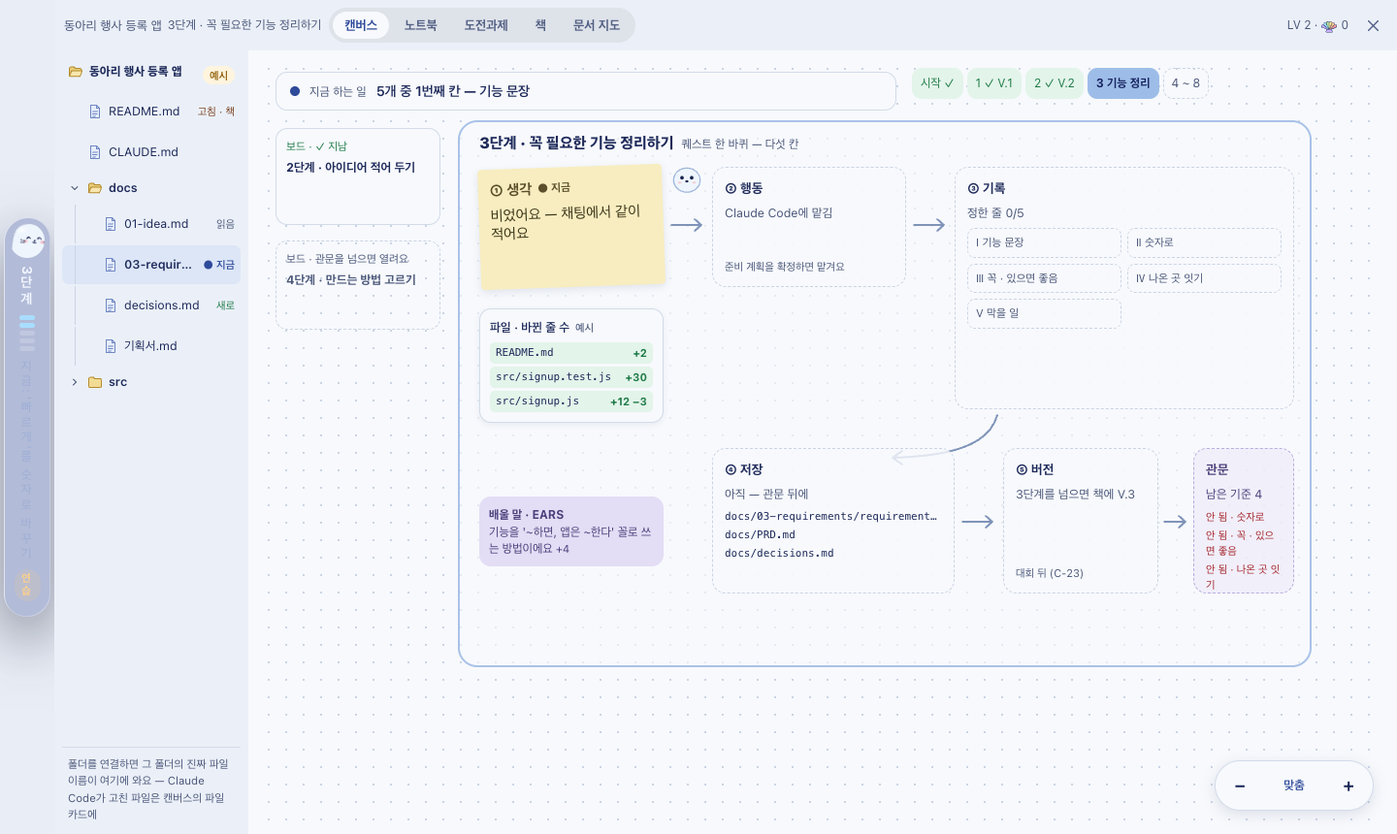
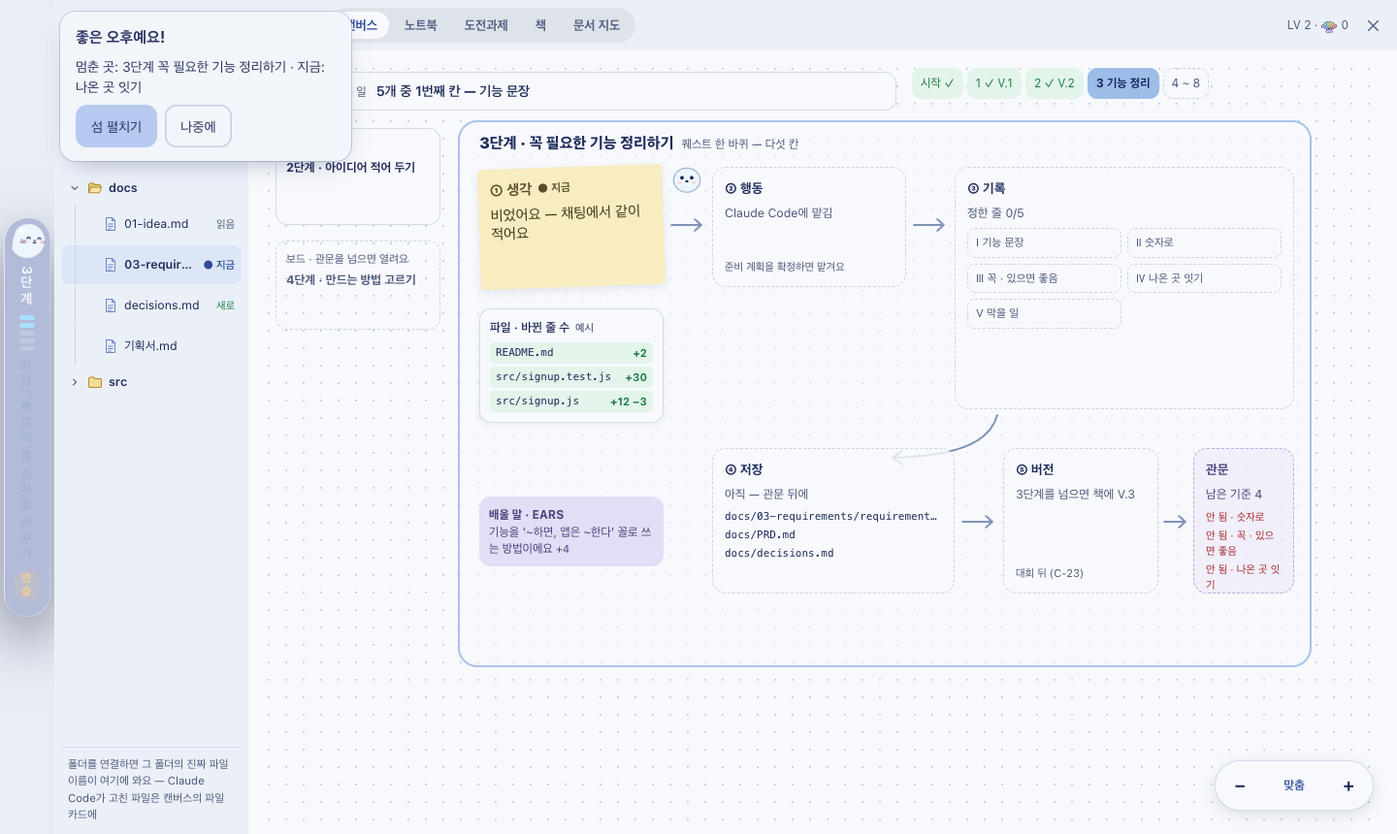
feat(navigator): C-55 켤 때 바로 작업실 — 지금 단계의 퀘스트 보드가 열린 채 섬은 접힌 알약, 알약 옆 말풍선(인사 · 멈춘 곳 · 섬 펼치기 / 나중에)
넘김 문서 fable-handoff-2026-10-27-mdlayout.md ⓒ(목업 캔버스 ①). 이재엽 버튼(2026-10-28): 켤 때 섬은 "접힌 알약 + 말풍선", 작업실은 "켤 때마다". C-46 R-1(켤 때 위 가운데 알약 안 인사)을 바꾼다 — R-2는 그대로.

- greet.js bootPlan(순수): 주소 끝 장면 · 휴대폰은 전처럼, 처음 설정이 필요하면(setup.js shouldOpen) 설정부터(작업실 · 말풍선 없이 — 알약 안 인사 뒤 설정), 아니면 작업실 + 말풍선. 인사 줄은 하루 한 번(C-46 버튼), 말풍선은 켤 때마다. BUBBLE_MS 8초(요구서 '시간 미정' → 8초로 둠)
- app.js: 켤 때 openQwin("canvas") + 접힌 알약(petit) + st.boot. 말풍선(bootBubble)은 옆 칸(앱 — isl-col.folded 밖으로 나와 작업실 위에, 가장자리 반대쪽) · 브라우저 판(알약 아래). '섬 펼치기' = 알약 누름, '나중에' = 말풍선만 사라짐. 접힌 칸은 말풍선이 있는 동안만 overflow visible
- 시험: greet.test(bootPlan 규칙 · app.js 글 고정), e2e pill-overlay — C-55 장면(작업실 + 알약 + 말풍선 · 같은 날은 인사 줄 없이 · 나중에 · 섬 펼치기 · 주소 끝 장면 · 처음 설정 전)이 R-1을 대신하고, R-2가 네 가장자리에서 말풍선이 창 안에 다 보이는지도 잰다. e2e 전체 48 통과
- 요구서 C-55 '만듦', compare README · 사진 boot-workspace.png, changes 조각

Changed region(s): [[0.0312, 0.0, 0.25, 0.2116]]

diff --git a/04-tests/e2e/pill-overlay.test.js b/04-tests/e2e/pill-overlay.test.js
@@ -29,28 +29,38 @@ if (skip) console.log(`⚠ e2e/pill-overlay: ${skip}`);
 const SHOTS = process.env.FLOE_SHOTS || "";
 const shot = async (page, name) => { if (SHOTS) { fs.mkdirSync(SHOTS, { recursive: true }); await page.screenshot({ path: path.join(SHOTS, `${name}.png`) }); } };
 
-test("R-1 — 주소 없이 켜면 알약 안에서 인사(html.greeting · .pill.greet · 시간대 인사 한 줄) → 끝나도 알약, 같은 날 다시 켜면 인사 없이 알약, 누르면 펼침. 주소 끝 장면은 전처럼 기본 화면", { skip }, async () => {
+// C-55(2026-10-28): R-1(켤 때 위 가운데 알약 + 알약 안 인사)을 바꿈 — 켜면 바로 작업실(.qwin, 캔버스) + 접힌 알약 + 알약 옆 말풍선(.hello-bub). 인사 줄은 하루 한 번, 말풍선은 켤 때마다(8초 뒤 사라짐)
+test("C-55 — 주소 없이 켜면 작업실이 바로 열리고 섬은 접힌 알약, 알약 옆 말풍선(시간대 인사 · 멈춘 곳 · 섬 펼치기 / 나중에). 같은 날 다시 켜면 인사 줄 없이. 주소 끝 장면 · 처음 설정 전은 전처럼", { skip }, async () => {
   const browser = await puppeteer.launch({ executablePath: chrome, headless: "new", args: ["--allow-file-access-from-files"] });
   try {
     const page = await browser.newPage(); await page.setViewport({ width: 1440, height: 900 });
     await page.goto(url("navigator/index.html#base"), { waitUntil: "load" });
     await page.evaluate(() => { localStorage.clear(); localStorage.setItem("floe:setup:v1", JSON.stringify({ done: true })); sessionStorage.clear(); });
-    await page.goto(url("navigator/index.html"), { waitUntil: "load" }); await page.reload({ waitUntil: "load" }); await wait(150);
-    let s = await page.evaluate(() => ({ greeting: document.documentElement.classList.contains("greeting"), pill: !!document.querySelector(".pill.greet"), hello: document.querySelector(".pill .pl-hello")?.textContent || "", isl: !!document.querySelector(".isl"), phase: document.documentElement.dataset.greet || "" }));
-    assert.ok(s.greeting && s.pill && !s.isl, `켜면 알약 안에서 인사: ${JSON.stringify(s)}`);
-    assert.ok(/아침|점심|오후|수고|밤/.test(s.hello), `시간대 인사 한 줄: ${s.hello}`);
-    await shot(page, "pill-greet");
-    await wait(2800);
-    s = await page.evaluate(() => ({ greeting: document.documentElement.classList.contains("greeting"), pill: !!document.querySelector(".pill") && !document.querySelector(".pill.greet"), isl: !!document.querySelector(".isl"), day: localStorage.getItem("floe:greet-day") }));
-    assert.ok(!s.greeting && s.pill && !s.isl, `끝나도 알약: ${JSON.stringify(s)}`);
+    await page.goto(url("navigator/index.html"), { waitUntil: "load" }); await page.reload({ waitUntil: "load" });
+    await page.evaluate(() => localStorage.removeItem("floe:greet-day")); await page.reload({ waitUntil: "load" }); await wait(400);   // 첫 켬 — 인사 줄은 켤 때 바로 '오늘 했다'로 적힌다(C-55)
+    const look = () => page.evaluate(() => ({ qwin: !!document.querySelector(".qwin"), canvas: !!document.querySelector(".qwin .cv"), pill: !!document.querySelector(".pill"), isl: !!document.querySelector(".isl"),
+      bub: document.querySelector(".hello-bub")?.textContent.replace(/\s+/g, " ").trim() || "", greeting: document.documentElement.classList.contains("greeting"),
+      later: !!document.querySelector(".hello-bub [data-act=boot-later]"), open: !!document.querySelector(".hello-bub [data-act=pill]"), day: localStorage.getItem("floe:greet-day") }));
+    let s = await look();
+    assert.ok(s.qwin && s.canvas && s.pill && !s.isl, `켜면 작업실(캔버스) + 접힌 알약: ${JSON.stringify(s)}`);
+    assert.ok(/아침|점심|오후|수고|밤/.test(s.bub), `말풍선에 시간대 인사 한 줄: ${s.bub}`); assert.match(s.bub, /멈춘 곳|시작 전/, "멈춘 곳 한 줄");
+    assert.ok(s.later && s.open, "섬 펼치기 / 나중에 단추"); assert.ok(!s.greeting, "알약 안 인사 움직임은 없다(말풍선으로)");
     assert.match(s.day || "", /^\d{4}-\d{2}-\d{2}$/, "오늘 인사했다");
-    await page.reload({ waitUntil: "load" }); await wait(150);
-    s = await page.evaluate(() => ({ greeting: document.documentElement.classList.contains("greeting"), pill: !!document.querySelector(".pill:not(.greet)"), isl: !!document.querySelector(".isl") }));
-    assert.ok(!s.greeting && s.pill && !s.isl, `같은 날 다시 켜면 인사 없이 알약: ${JSON.stringify(s)}`);
-    await page.click(".pill"); await wait(400);
-    assert.ok(await page.$(".isl .mc.chat"), "알약을 누르면 펼침");
+    const b = await page.$eval(".hello-bub", (el) => { const r = el.getBoundingClientRect(); return { w: r.width, h: r.height, in: r.left >= 0 && r.right <= innerWidth && r.top >= 0 && r.bottom <= innerHeight }; });
+    assert.ok(b.in && b.w > 120, `말풍선이 화면 안에: ${JSON.stringify(b)}`);
+    for (const sel of [".hello-bub [data-act=boot-later]", ".hello-bub [data-act=pill]"]) { const h = await page.$eval(sel, (el) => el.getBoundingClientRect().height); assert.ok(h >= 44, `${sel} 44px: ${h}`); }
+    await shot(page, "boot-workspace");
+    await page.click(".hello-bub [data-act=boot-later]"); await wait(300);
+    s = await look(); assert.ok(!s.bub && s.qwin && s.pill, `나중에 → 말풍선만 사라진다: ${JSON.stringify(s)}`);
+    await page.reload({ waitUntil: "load" }); await wait(400);
+    s = await look(); assert.ok(s.qwin && s.pill && s.bub && !/아침|점심|오후|수고|밤/.test(s.bub), `같은 날 다시 켜면 말풍선은 뜨되 인사 줄은 없음: ${s.bub}`);
+    await page.click(".hello-bub [data-act=pill]"); await wait(500);
+    assert.ok(await page.$(".isl .mc.chat"), "섬 펼치기 → 섬이 펼쳐진다"); assert.ok(!(await page.$(".hello-bub")), "펼치면 말풍선은 없다");
     await page.goto(url("navigator/index.html#base"), { waitUntil: "load" }); await page.reload({ waitUntil: "load" }); await wait(150);
-    assert.ok(await page.$(".isl .mc.chat") && !(await page.$(".pill")), "주소 끝 장면은 기본 화면(시험 · 녹화)");
+    assert.ok((await page.$(".isl .mc.chat")) && !(await page.$(".pill")) && !(await page.$(".hello-bub")), "주소 끝 장면은 기본 화면(시험 · 녹화)");
+    await page.evaluate(() => localStorage.removeItem("floe:setup:v1"));
+    await page.goto(url("navigator/index.html"), { waitUntil: "load" }); await page.reload({ waitUntil: "load" }); await wait(400);
+    s = await look(); assert.ok(!s.qwin && !s.bub && (await page.$("#floe-setup")), `처음 설정이 필요하면 설정부터: ${JSON.stringify(s)}`);
   } finally { await browser.close(); }
 });
 
@@ -74,12 +84,14 @@ async function measure(browser, h, side, folded) {
   await page.setViewport({ width: 1440, height: 860 });
   await page.goto(url("navigator/win.html#quest"), { waitUntil: "load" });
   const cls = `side-${side} ${side === "left" || side === "right" ? "narrow" : "wide"}${folded ? " folded" : ""}`;
-  await page.evaluate((html) => window.__h(html), `${h.qwin}<div class="isl-col ${cls}">${folded ? h.pill : h.isl}</div>`);
+  const BUB = '<div class="hello-bub" role="status"><b class="hb-hi">좋은 오후예요!</b><span class="hb-now">멈춘 곳: 3단계 꼭 필요한 기능 정리하기 · 지금: 나온 곳 잇기</span><div class="hb-acts"><button type="button" data-act="pill">섬 펼치기</button><button type="button" class="ghost" data-act="boot-later">나중에</button></div></div>';   // C-55 켤 때 말풍선(app.js bootBubble과 같은 모양)
+  await page.evaluate((html) => window.__h(html), `${h.qwin}<div class="isl-col ${cls}${folded ? " has-bub" : ""}">${folded ? h.pill + BUB : h.isl}</div>`);
   await wait(450);
   const m = await page.evaluate(() => { const c = document.querySelector(".isl-col").getBoundingClientRect(), cv = document.querySelector(".cv"), p = document.querySelector(".isl-col .pill"), hd = document.getElementById("hd");
     const pr = p && p.getBoundingClientRect(), inside = !!pr && pr.top >= c.top - 0.5 && pr.bottom <= c.bottom + 0.5 && pr.left >= c.left - 0.5 && pr.right <= c.right + 0.5;
-    const col = document.querySelector(".isl-col");
-    return { bg: getComputedStyle(col).backgroundColor, pillBg: p ? getComputedStyle(p).backgroundColor : "", w: Math.round(c.width), h: Math.round(c.height), cvw: cv.clientWidth, cvh: cv.clientHeight, pill: p ? { w: Math.round(pr.width), h: Math.round(pr.height), wm: getComputedStyle(p.querySelector(".pl-now") || p).writingMode, inside } : null, hd: !!hd && !hd.hidden, overflow: cv.scrollWidth > cv.clientWidth + 1 }; });
+    const col = document.querySelector(".isl-col"), bb = document.querySelector(".hello-bub"), br = bb && bb.getBoundingClientRect();
+    const bub = br ? { w: Math.round(br.width), in: br.left >= 0 && br.right <= innerWidth && br.top >= 0 && br.bottom <= innerHeight, over: !(br.right <= c.left || br.left >= c.right || br.bottom <= c.top || br.top >= c.bottom) && !(br.left >= c.left && br.right <= c.right && br.top >= c.top && br.bottom <= c.bottom) } : null;
+    return { bub, bg: getComputedStyle(col).backgroundColor, pillBg: p ? getComputedStyle(p).backgroundColor : "", w: Math.round(c.width), h: Math.round(c.height), cvw: cv.clientWidth, cvh: cv.clientHeight, pill: p ? { w: Math.round(pr.width), h: Math.round(pr.height), wm: getComputedStyle(p.querySelector(".pl-now") || p).writingMode, inside } : null, hd: !!hd && !hd.hidden, overflow: cv.scrollWidth > cv.clientWidth + 1 }; });
   await shot(page, `col-${side}-${folded ? "folded" : "open"}`);
   await page.close();
   return m;
@@ -99,6 +111,7 @@ test("R-2 — 작업실 창 안에서 섬을 접으면 옆 칸이 알약(두께 
       assert.ok(f.pill && (vertical ? f.pill.wm === "vertical-rl" && f.pill.w <= 56 : f.pill.wm === "horizontal-tb" && f.pill.h <= 56), `${side} — ${vertical ? "세로" : "가로"} 알약: ${JSON.stringify(f.pill)}`);
       assert.equal(f.bg, "rgba(0, 0, 0, 0)", `${side} — 접힌 칸의 바탕은 작업실 바탕이 비친다(F-65 파란 줄 없음): ${f.bg}`); assert.notEqual(o.bg, "rgba(0, 0, 0, 0)", `${side} — 펼친 칸은 네이비 그대로`);
       assert.ok(f.pillBg && f.pillBg !== "rgba(0, 0, 0, 0)", `${side} — 남색은 알약 하나: ${f.pillBg}`);
+      assert.ok(f.bub && f.bub.in && f.bub.w >= 200, `${side} — 켤 때 말풍선(C-55)이 접힌 칸 밖 · 창 안에 다 보인다: ${JSON.stringify(f.bub)}`);
       assert.ok(!f.overflow && !o.overflow, `${side} — 넘침 0`); assert.ok(f.pill.inside, `${side} — 알약이 칸 안에 다 들어간다(잘리지 않음): ${JSON.stringify(f.pill)}`);
     }
   } finally { await browser.close(); }

diff --git a/02-frontend/navigator/app.js b/02-frontend/navigator/app.js
@@ -129,7 +129,7 @@
     results: {}, ship: null,                       // C-37(2026-10-25): 단계마다 보고한 결과(quest.js resultOf — 한곳에서 보기 · 도전과제 지도 · 문서) · 2단계를 마친 뒤 문서 올리기({phase: offer|sent, at}, 이 켜짐 동안만)
     owned: [], wear: {}, gacha: null,               // 뽑기 · 꾸미기(C-22): 얻은 것(아이디) · 입은 것 {자리: 아이디} · 뽑기 창 {phase: ready|rolling|got, item}
     // 창 둘(설정 창 st.settings · 퀘스트 창 st.qwin) · 퀘스트 창의 탭 · 채팅 기록(이 켜짐 동안만 — 기록에는 안 남긴다) · 채팅 칸의 글
-    qwin: false, qtab: "canvas", chat: [], say: "", rb: null, rbSel: 0, tuSel: "", files: null, fnOpen: [], fnFind: "", openFiles: [], fileSel: -1,   // files · fnOpen — 작업실 파일 칸(R-8)의 목록과 펼친 폴더, fnFind · openFiles · fileSel — 파일 찾기 · 열린 파일(C-43)(이 켜짐 동안만)   // rb · tuSel — 책 탭의 README · 도전과제의 '알아 둘 것'에서 펼친 기능(이 켜짐 동안만)
+    qwin: false, qtab: "canvas", boot: null, chat: [], say: "", rb: null, rbSel: 0, tuSel: "", files: null, fnOpen: [], fnFind: "", openFiles: [], fileSel: -1,   // files · fnOpen — 작업실 파일 칸(R-8)의 목록과 펼친 폴더, fnFind · openFiles · fileSel — 파일 찾기 · 열린 파일(C-43)(이 켜짐 동안만)   // rb · tuSel — 책 탭의 README · 도전과제의 '알아 둘 것'에서 펼친 기능(이 켜짐 동안만)
     gh: null, ghVis: "private", ghNote: "",         // 설정의 GitHub 칸(C-25, 2026-10-24): 서버가 본 상태(/api/github) · 새 저장소의 공개 범위 · 맡긴 뒤 한 줄(이 켜짐 동안만)
     plan: null, planDraft: "", planReadme: true, planRej: "", planRejNote: "", planBusy: "", planAsk: "", planQ: "", planAns: {}, planReply: {},   // planBusy: 무엇을 기다리나(make · hand · ask) · planAsk/planQ: 물어보는 줄과 질문 · planAns: 줄마다 받은 답 · planReply: Claude Code가 물은 것에 적는 답(이 켜짐 동안만)   // 준비 계획판(C-34 · C-32, 2026-10-24): 판(plan.js) · 한 번에 넣은 글 · README도 읽나 · '다르게 봐요'를 여는 줄과 그 의견
     qfocus: "stage", planSel: "",                   // C-35: 지금 할 퀘스트(stage 단계 퀘스트 · plan 준비 계획과 맡길 일 — 채팅의 지금 말이 이쪽을 따른다) · 퀘스트 창에서 고른 맡길 일(이 켜짐 동안만)
@@ -2175,7 +2175,15 @@
   // C-46 R-2(2026-10-27 이재엽 버튼 "펼치면 비킴 · 접으면 알약" · "고른 가장자리에" · 세로 알약 · 설정의 시간대로): 섬이 접혀 있으면(petit · hidden) 옆 칸은 그 가장자리의 알약(folded — 왼쪽 · 오른쪽은 세로)이고 작업실이 넓어진다(win.js · win.html).
   //   알약을 누르면(ACT pill) 펼쳐지고 작업실이 비킨다. 알릴 일(허락 카드 · 보고 · 질문 · 오류)은 peek · alert로 저절로 펼친다(peek는 앱의 작업실 안이면 home으로). 저절로 접히기는 설정 '접히기까지' 그대로(pinned에서 st.qwin을 앱에서는 빼서) — 단 옆 칸에 마우스가 있거나 글을 쓰는 중(colHover · colTyping)이면 안 접히고, 접힌 알약은 더 접히지 않는다
   const colFolded = () => st.ui === "petit" || st.ui === "hidden";
-  const islCol = () => `<div class="isl-col side-${side} ${side === "left" || side === "right" ? "narrow" : "wide"}${colFolded() ? " folded" : ""}">${colFolded() ? pillHTML() : islandHTML("")}</div>`;
+  const islCol = () => `<div class="isl-col side-${side} ${side === "left" || side === "right" ? "narrow" : "wide"}${colFolded() ? " folded" : ""}${colFolded() && st.boot ? " has-bub" : ""}">${colFolded() ? pillHTML() + bootBubble() : islandHTML("")}</div>`;
+  // C-55(2026-10-28 이재엽 버튼 "접힌 알약 + 말풍선"): 켤 때 알약 옆 말풍선 — 시간대 인사 한 줄(하루 한 번) · 멈춘 곳(단계 · 지금 칸) · 섬 펼치기 / 나중에. 몇 초 뒤(greet.js BUBBLE_MS) 사라진다
+  const bootBubble = () => {
+    if (!st.boot || !colFolded()) return "";
+    const s = st.j && stage();
+    const now = s ? `멈춘 곳: ${LB(s.n)} ${esc(s.title)} · 지금: ${esc(tick().now)}` : "시작 전이에요 — 무엇을 만들지부터 같이 정해요";
+    return `<div class="hello-bub" role="status" aria-live="polite">${st.boot.greet ? `<b class="hb-hi">${esc(C.greeting(new Date().getHours()))}</b>` : ""}<span class="hb-now">${now}</span>
+      <div class="hb-acts"><button type="button" data-act="pill">섬 펼치기</button><button type="button" class="ghost" data-act="boot-later">나중에</button></div></div>`;
+  };
   function syncWins() {
     if (!WINS || !QU) return;
     for (const [kind, on, html] of [["quest", st.qwin, st.qwin ? qwinHTML() + islCol() : ""]]) {
@@ -2262,7 +2270,7 @@
     placeFrom = st.place; paneFrom = st.pane;
     deskKeys = {};
     if (st.ui === "hidden") { $nav.innerHTML = stripHTML(); }
-    else if (st.ui === "petit") $nav.innerHTML = `<div class="${enter.trim()}">${pillHTML()}</div>`;
+    else if (st.ui === "petit") $nav.innerHTML = `${!WINS && st.qwin ? qwinHTML() : ""}<div class="${enter.trim()}">${pillHTML()}${bootBubble()}</div>`;   // 브라우저 판(C-55): 켤 때 작업실이 열린 채 알약이면 작업실 판도 함께(앱은 창으로 — syncWins)
     else $nav.innerHTML = islandHTML(enter);
     $nav.classList.toggle("side", !!$nav.querySelector(":scope > .win"));   // 창(설정 · 퀘스트)이 열리면 섬 옆에 나란히(C-22) — 아래에 열리면 글자를 키웠을 때 바로 안 보였다(6.2.0)
     $nav.classList.toggle("peekroom", !!window.floeApp && (st.ui === "hidden" || st.ui === "petit"));   // 접힌 창의 여유 — 올리면 커질 자리(C-14)
@@ -2776,6 +2784,7 @@
     pin: () => { clearIdle(); set({ userPin: !st.userPin }); say(st.userPin ? "여기 열어 둘게요" : "이제 잠시 뒤 작게 접힐게요"); },
     pill: () => (st.ui === "hidden" ? go("home") : view("click")),   // 접힌 알약은 어느 상태든 누르면 펼침(C-46, 새 맥락 리뷰)
     fold: () => go("petit"),
+    "boot-later": () => { st.boot = null; render(); },   // C-55 말풍선의 '나중에' — 말풍선만 사라진다(작업실 · 알약은 그대로)
     pet: () => pet("tap"),
     // 연습용은 바로 살펴보고, 진짜 AI 모드에서는 글만 넣어 둔다(보내는 건 사용자가 '어디쯤인지 보기'를 누를 때)
     ex: (i) => {
@@ -3426,8 +3435,13 @@
   // C-46 R-1(2026-10-27 이재엽 "플로가 켜지면 … 알약" · 버튼 "알약 안에서 인사" · "하루에 한 번"): 켜면 큰 인사 카드 없이 알약(petit)으로, 인사는 알약 안에서(startGreeting — greet.js PILL_TIMELINE).
   //   같은 날 다시 켜면 인사 없이 알약만(floe:greet-day). 주소 끝 장면(시험 · 녹화)은 전처럼 기본 화면. 움직임 줄이기 · 휴대폰은 알약만
   const GREET_DAY = "floe:greet-day";
-  const greetNow = !!GR && st.ui === "greet" && GR.shouldGreet({ hash: location.hash, still: STILL, phone: isPhone(), lastDay: readLS(GREET_DAY, ""), today: ymd() }).greet;
-  if (greetNow) { document.documentElement.classList.add("greeting"); st.ui = "petit"; }
+  // C-55(2026-10-28 이재엽 버튼 "접힌 알약 + 말풍선" · "켤 때마다"): 켜면 바로 작업실(캔버스 = 지금 단계의 퀘스트 보드) + 접힌 알약 + 알약 옆 말풍선(greet.js bootPlan). 처음 설정이 필요하면 전처럼(알약 안 인사 → 설정)
+  const bootArgs = { hash: location.hash, still: STILL, phone: isPhone(), lastDay: readLS(GREET_DAY, ""), today: ymd(),
+    setupNeeded: !!(window.FloeSetup && window.FloeSetup.shouldOpen(window.FloeSetup.readSaved(localStorage), location.hash)) };
+  const boot = GR && st.ui === "greet" ? GR.bootPlan(bootArgs) : { workspace: false, bubble: false, greet: false };
+  const greetNow = !!GR && st.ui === "greet" && !boot.workspace && GR.shouldGreet(bootArgs).greet;
+  if (boot.workspace) { openQwin("canvas"); st.ui = "petit"; st.boot = { greet: boot.greet, at: Date.now() }; if (boot.greet) writeLS(GREET_DAY, ymd()); setTimeout(() => { if (st.boot) { st.boot = null; render(); } }, GR.BUBBLE_MS); }
+  else if (greetNow) { document.documentElement.classList.add("greeting"); st.ui = "petit"; }
   else if (st.ui === "greet") st.ui = location.hash && location.hash !== "#" ? "home" : "petit";
   function startGreeting() {
     const h = document.documentElement;

diff --git a/02-frontend/navigator/app.css b/02-frontend/navigator/app.css
@@ -1263,6 +1263,24 @@ html.win-quest .wh .ttl{display:none}   /* OS 제목 줄에 "Floe — 작업실"
 .isl-col.folded.side-left .pill .pet,.isl-col.folded.side-right .pill .pet{margin:0}
 .isl-col.folded.side-left .pill b,.isl-col.folded.side-left .pill .pl-now,.isl-col.folded.side-left .pill .pl-cta,.isl-col.folded.side-left .pill .pl-mode,.isl-col.folded.side-left .pill .mini,
 .isl-col.folded.side-right .pill b,.isl-col.folded.side-right .pill .pl-now,.isl-col.folded.side-right .pill .pl-cta,.isl-col.folded.side-right .pill .pl-mode,.isl-col.folded.side-right .pill .mini{writing-mode:vertical-rl;max-width:none;max-height:240px}
+/* claude-drafted: 2026-10-28 — C-55 켤 때 알약 옆 말풍선(.hello-bub, 이재엽 버튼 "접힌 알약 + 말풍선"). 파스텔 종이 + 남색 글씨(대비 4.5:1 이상), 단추 44px. 접힌 칸(56) 밖으로 나와 작업실 위에 뜬다 — 그 가장자리의 반대쪽으로 */
+.hello-bub{box-sizing:border-box;width:300px;max-width:calc(100vw - 32px);padding:14px 16px;border-radius:16px;background:#F2F5FA;color:#2B3463;box-shadow:0 10px 28px -12px rgba(43,52,99,.45),0 0 0 1px #C5CEE2;display:grid;gap:8px;font-size:14px;line-height:1.5;text-align:left;animation:bub-in .3s cubic-bezier(.2,.8,.2,1)}
+.hello-bub .hb-hi{font-size:16px}
+.hello-bub .hb-now{color:#2B3463}
+.hello-bub .hb-acts{display:flex;gap:8px;flex-wrap:wrap}
+.hello-bub .hb-acts button{min-height:44px;padding:0 16px;border:0;border-radius:12px;background:#B8C9F0;color:#263066;font:inherit;font-size:14px;cursor:pointer}
+.hello-bub .hb-acts button.ghost{background:transparent;color:#2B3463;box-shadow:inset 0 0 0 1.5px #C5CEE2}
+.hello-bub .hb-acts button:focus-visible{outline:2px solid #4D66B5;outline-offset:2px}
+@keyframes bub-in{from{opacity:0;transform:translateY(6px)}to{opacity:1;transform:none}}
+@media (prefers-reduced-motion:reduce){.hello-bub{animation:none}}
+.nav>div>.hello-bub{margin-top:8px}   /* 브라우저 판 — 알약 아래 */
+.isl-col.folded.has-bub{overflow:visible;position:relative}   /* 말풍선이 있는 동안만 칸 밖으로 나온다(알약은 그대로 칸 안) */
+.isl-col.folded .hello-bub{position:absolute;z-index:3}
+.isl-col.folded.side-right .hello-bub{right:62px;top:12px}
+.isl-col.folded.side-left .hello-bub{left:62px;top:12px}
+.isl-col.folded.side-top .hello-bub{top:62px;left:50%;transform:translateX(-50%)}
+.isl-col.folded.side-bottom .hello-bub{bottom:62px;left:50%;transform:translateX(-50%)}
+@media (prefers-reduced-motion:no-preference){.isl-col.folded.side-top .hello-bub,.isl-col.folded.side-bottom .hello-bub{animation:none}}   /* translateX와 겹치는 움직임은 두지 않는다 */
 /* 섬 머리의 자리 네 칸(▲ ▼ ◀ ▶) */
 .dk{display:inline-flex;gap:2px;padding:2px;border-radius:10px;background:var(--soft);flex:none}
 .dk button{width:26px;height:26px;border:0;border-radius:7px;background:transparent;color:var(--mute);font-size:calc(11px * var(--ui-scale,1));cursor:pointer}

diff --git a/02-frontend/navigator/greet.js b/02-frontend/navigator/greet.js
@@ -32,6 +32,18 @@
     return { greet: true, why: "" };
   }
 
+  // C-55(2026-10-28 이재엽 버튼 "접힌 알약 + 말풍선" · "켤 때마다"): 켤 때 무엇을 여나 — 작업실(지금 단계의 퀘스트 보드) · 알약 옆 말풍선 · 인사 줄.
+  //   처음 설정이 필요하면(setup.js shouldOpen) 설정부터 — 작업실 · 말풍선 없이(인사는 전처럼 알약 안에서, 끝나면 설정이 열린다). 주소 끝 장면 · 휴대폰은 전처럼.
+  //   말풍선은 켤 때마다(멈춘 곳 · 섬 펼치기 / 나중에), 시간대 인사 줄만 하루에 한 번(C-46 버튼). 움직임 줄이기면 인사 움직임 없이 말풍선만
+  const BUBBLE_MS = 8000;   // 말풍선이 사라지기까지 — 요구서 C-55 '몇 초 뒤(시간 미정)' → 8초로 두었다. 누르면(섬 펼치기 · 나중에) 바로
+  function bootPlan({ hash = "", still = false, phone = false, lastDay = "", today = "", setupNeeded = false } = {}) {
+    if (hash && hash !== "#") return { workspace: false, bubble: false, greet: false, why: "주소 끝 장면" };
+    if (phone) return { workspace: false, bubble: false, greet: false, why: "휴대폰 화면" };
+    if (setupNeeded) return { workspace: false, bubble: false, greet: shouldGreet({ hash, still, phone, lastDay, today }).greet, why: "처음 설정부터" };
+    const g = shouldGreet({ hash, still: false, phone, lastDay, today });
+    return { workspace: true, bubble: true, greet: g.greet && !still, why: still && g.greet ? "움직임 줄이기 — 알약만" : g.why };
+  }
+
   // 시간표를 돌린다 — onPhase(단계 이름)를 차례로 부른다. skip()은 남은 타이머를 모두 지우고 바로 "done"을 한 번만 부른다(누름 · Esc).
   // cancel()은 지우기만 한다(화면을 떠날 때). 타이머 함수는 시험이 가짜로 넣는다
   function play(timeline, { setTimeout: later = root.setTimeout, clearTimeout: cancelTimer = root.clearTimeout, onPhase } = {}) {
@@ -44,7 +56,7 @@
     return { skip: done, cancel: () => { timers.forEach(cancelTimer); timers = []; finished = true; }, get finished() { return finished; } };
   }
 
-  const api = { TIMELINE, PILL_TIMELINE, LIMIT, total, shouldGreet, play };
+  const api = { TIMELINE, PILL_TIMELINE, LIMIT, BUBBLE_MS, total, shouldGreet, bootPlan, play };
   if (typeof module !== "undefined" && module.exports) module.exports = api;
   else root.FloeGreet = api;
 })(typeof window !== "undefined" ? window : globalThis);

diff --git a/04-tests/navigator/pill-overlay.test.js b/04-tests/navigator/pill-overlay.test.js
@@ -10,7 +10,7 @@ const read = (f) => fs.readFileSync(path.join(__dirname, "../../02-frontend", f)
 test("app.js — 섬이 접혀 있으면(petit · hidden) 옆 칸은 알약(folded), 아니면 섬 그대로. 앱의 작업실은 열려 있어도 저절로 접힌다(pinned에서 뺌), 알약을 누르면 펼친다", () => {
   const a = read("navigator/app.js");
   assert.match(a, /const colFolded = \(\) => st\.ui === "petit" \|\| st\.ui === "hidden";/);
-  assert.match(a, /\$\{colFolded\(\) \? " folded" : ""\}">\$\{colFolded\(\) \? pillHTML\(\) : islandHTML\(""\)\}<\/div>`;/, "접힘이면 알약 하나");
+  assert.match(a, /\$\{colFolded\(\) \? pillHTML\(\) \+ bootBubble\(\) : islandHTML\(""\)\}<\/div>`;/, "접힘이면 알약 하나(+ 켤 때 말풍선 C-55)");
   assert.match(a, /\|\| st\.settings \|\| \(st\.qwin && !WINS\) \|\| !!st\.gacha/, "앱의 작업실은 섬을 붙들지 않는다(설정의 시간대로) — 브라우저의 옆 판은 전처럼");
   assert.match(a, /pill: \(\) => \(st\.ui === "hidden" \? go\("home"\) : view\("click"\)\)/, "알약 누름 = 펼침(hidden이어도)"); assert.match(a, /fold: \(\) => go\("petit"\)/, "접기 단추");
   // 새 맥락 리뷰(2026-10-27) 막힘 둘 · 보완: 접힌 알약은 더 접히지 않는다, 옆 칸에 마우스 · 글 쓰는 중에는 안 접힌다, 알릴 일이 오면 펼친다, Esc는 먼저 접기

diff --git a/01-docs/00-overview/requirements.md b/01-docs/00-overview/requirements.md
@@ -210,7 +210,7 @@ flowchart LR
 | **C-52 지식 · 작업의 보안 — 쓰기 전 가리기 · 빼 둘 곳 · 넣은 글은 자료로만 · 크기와 정지선 · 보관** | **When** 시스템이 기록(한 장 · 배운 것 · 가져갈 것 · 단계 문서)을 사용자 저장소에 쓰려 하면, 비밀값은 가리고(`sensitive.js`) 개인적인 일로 보이는 구간은 먹이 주기처럼(`feed.js`) 빼고 미리 보인다. **If** 그 저장소가 공개면, 쓰기 전에 "누구나 볼 수 있어요 — 올리면 지워도 이력에 남아요"를 한 번 더 묻는다.<br>시스템은 사용자가 고른 폴더 · 파일을 Floe의 AI(정리 · 계획 · 요약)에 보내지 않는다 — 비밀값 파일 목록(`files.js` · `check-secrets.sh`)과 같은 목록에 사용자가 더한다 [제안].<br>시스템은 먹이 · README · 문서에서 온 글을 AI에게 **자료로만** 넘기고 그 안의 지시를 따르지 않게 한다 — 정리 · 요약 · 계획은 지금처럼 도구 없는 호출(`provider.js` `--tools ""`)로만 하고, 파일을 쓰는 일만 Claude Code(허락 카드, FR-17)에 맡긴다.<br>시스템은 정해진 시각에 저절로 도는 정리를 두지 않는다 — 퀘스트 칸 · 관문에서 사람이 움직일 때만. 정리에 보내는 글마다 크기 한계를 두고, 같은 문서의 정리 요청이 쌓이면 마지막 하나만 보낸다. 한도 80%에서 알리고 다 쓰면 멈춘다(지금 `provider.js` meter).<br>시스템은 반려 · 낡음 · 근거 없음 기록을 지우지 않고 보관하며, 지우는 것은 사용자만 한다. 시스템은 다른 서비스의 아이디 · 비밀번호를 묻지도 두지도 않는다 | 참고: Simplify — 기밀 문서는 로컬 LLM으로 · DIKW 제외(파일 · 폴더) · 80KB 절단 · 같은 파일은 최신 1건만 · 한도 95% 정지선 · 도구를 제한한 레인 · 반려 보관 · 매시 · 매일 스케줄. 이재엽 2026-10-27 "작업하는데 어떤 점들을 보안해야하는지" · 같은 날 그 사이트에 아이디 · 비밀번호를 주면 로그인이 되는지 물음(비밀번호는 대화로 받지 않는다고 안내함). 우리 쪽: `docs.js` redact("공개 저장소일 수 있다") · `feed.js` · `provider.js` cliArgs · `files.js` · `project.js`("Floe는 GitHub 토큰을 받지도 두지도 않는다", "`claude -p`는 폴더를 믿는지 묻지 않는다"). 보안 기준 [security-records.md](../../.claude/rules/security-records.md) 2 · 3 · 5절 · 6-1 · 6-3 · 6-4(OWASP Top 10 for LLM Applications의 프롬프트 주입 — 원문은 쓸 때 확인) | **결정 대기.** 제안 — 공개 저장소 확인 · 자료로만 · 스케줄 없음은 **C-25 · C-47 · C-48을 만드는 PR의 조건**(따로 세지 않음), 빼 둘 곳 · 보관 기간은 Could | 없음(만드는 PR마다 시험으로) | ① 공개 저장소 확인 — 매번 / 저장소마다 처음 한 번 ② 빼 둘 곳의 자리 — 설정 창 / 프로젝트의 파일 하나 ③ 보관 기간(보안 기준 5절 빈칸) ④ NotebookLM(C-24) · 웹 주소 넣기 같은 새 길은 보안 기준 3절 표에 먼저 |
 | **C-53 작업실 새 틀 — 파일 칸 · 작업 칸 · 오른쪽 칸 (MD 에디터 모양)** <!-- claude-drafted: 2026-10-27 — 이재엽 요청("작업하는 공간은 [스크린샷] 이걸 따르고 내가 요구한 기능들을 보이도록" · "전부 목업에서 진행한걸 토대로 페이블에서 작업할 예정" · "전부 작업 시작 필요한 부분들")으로 Claude가 목업 캔버스와 문장 초안을 만들었다. 만들지 않았다. C-54 · C-55도 같다. --> | 시스템은 작업실을 세 칸으로 둔다 — 왼쪽 **파일 칸**(이름 찾기 · '열린 파일' 묶음 · 진짜 목록 C-42 R-8), 가운데 **작업 칸**(위 줄: 작업실 · 지금 단계 · 보기 고르기 **지도 / 퀘스트 보드 / 노트북 / 책** · 칸 접기 단추, 그 아래 단계 칩 줄 또는 열린 파일 탭 · 문서 도구 줄 · 본문 · 상태 줄), 오른쪽 **오른쪽 칸**(위: 이 문서 — 목차 · 칸 채움 · 재료, 아래: 퀘스트 — 지금 단계 · 다섯 칸 · 관문 남은 기준). 파일 칸과 오른쪽 칸은 위 줄 단추로 접는다.<br>**When** 사용자가 파일을 열면(C-43), 시스템은 문서 도구 줄에 보기 / 원문 · 서식(제목 · 굵게 · 목록 · 넣기) · 글 크기 · 목차 · 머리말 · 찾기 · 틀로 맡기기(C-44) · 저장(⌘S) · 되돌리기를, 상태 줄에 저장 이력 수 · 바뀐 줄(Claude Code가 / 내가 — 색으로 나눔) · 줄 위치 · 줄 끝(LF · CRLF)을 보인다. 서식 단추는 원문에 마크다운 기호를 넣는다 [제안 — 지금은 원문 고치기만].<br>**When** 사용자가 섬을 펼치면(C-46 R-2), 시스템은 오른쪽 칸을 접어 작업실이 비킬 자리를 만들고, 섬을 접으면 다시 보인다 [제안] | 이재엽 2026-10-27 "그리고 작업하는 공간은 [스크린샷] 이걸 따르고 내가 요구한 기능들을 보이도록 해줬으면 좋겠네" + 스크린샷(md.sumzip.com MD Editor — 파일목록 · 찾기 · 열린파일 \| 탭 · 서식 줄 · 문서 · 상태 줄 '임시저장 목록 · 현재 1 / 전체 1' \| Outline Hierarchy · Document Stats · Project) · "전부 목업에서 진행한걸 토대로 페이블에서 작업할 예정임" · (목업을 본 뒤) "전부 작업 시작 필요한 부분들". [목업 캔버스](https://claude.ai/artifact/1To4aBVaPbF74QoBjy7Pf3) ① ② ③. 지금(`main` 931274c): 파일 칸 · 탭 다섯(캔버스 · 노트북 · 도전과제 · 책 · 문서 지도) · 파일 보기 · 고치기(C-43)는 있다 — 오른쪽 칸 · 서식 단추 · 상태 줄은 없다 | **만든다 — 2026-10-27 이재엽 "전부 작업 시작"**, 페이블 세션([넘김 문서](기록/fable-handoff-2026-10-27-mdlayout.md) ⓓ), 11/1 동결 전. MoSCoW는 이재엽 [제안: Should — C-41 · C-42와 같은 화면 방향] | 작업실 세 칸 · 문서 열고 고치기 | ① 서식 단추를 새로 만드나(지금은 원문 고치기만) ② 오른쪽 칸 — 섬을 펼치면 접힘 / 늘 보임 ③ 상태 줄의 '바뀐 줄'은 git과 다른 줄인가, 저장 이력 기준인가 ④ 보기 고르기의 '퀘스트 보드'는 지금 '캔버스' 탭 — 이름을 바꾸나 |
 | **C-54 지도 — 도전과제와 문서 지도를 한 탭으로, 2단계 끝에 전체 그림을 그리고 퀘스트를 미리 준비** | 시스템은 도전과제 탭과 문서 지도 탭(C-45)을 **지도** 하나로 합친다 — 카드 하나 = 한 단계의 퀘스트(다섯 칸 진행 · 관문 남은 기준)와 그 퀘스트가 쓰는 단계 문서(`docs/<단계>/…md` — 있음 / 아직). 카드는 1 → 4, 5 → 8 차례로 잇고, 단계 밖 문서(README · CLAUDE.md · `docs/decisions.md`)는 아래 줄에 둔다. 끝남 · 지금 · 준비됨 · 아직 안 그려짐을 모양(채움 · 굵은 테두리 · 점선 · 흐림)으로 나눈다.<br>**While** 2단계 기획서를 확인하기 전이면, 시스템은 1 · 2단계 카드만 그리고 3 ~ 8단계는 '2단계에서 그려져요'로 흐리게 둔다.<br>**When** 사용자가 2단계 IV(기획서로 키울지)에서 기획서(`docs/02-plan/plan.md`)를 확인하면, 시스템은 기획서에서 3 ~ 8단계 카드를 한 번에 그리고 카드마다 퀘스트 다섯 칸을 **준비된 퀘스트**로 미리 채운다 — ① 생각(기획서의 그 절) · ② 행동(맡길 일) · ③ 기록(정할 줄) · ④ 저장(문서 이름) · ⑤ 버전. 카드마다 어느 절에서 왔는지 적고(근거가 없으면 '새로 정함' — C-51과 같은 규칙), 사용자는 맞아요 / 고칠래요로 확인한다. 그 단계에 들어서면 준비된 칸으로 퀘스트를 시작한다(지금은 들어설 때 만든다).<br>**When** 사용자가 카드를 누르면, 시스템은 오른쪽 칸(C-53)에 그 퀘스트의 다섯 칸 · 문서 · 재료를 보이고, 문서가 있으면 파일 보기(C-43)로 연다 | 이재엽 2026-10-27 "문서지도랑 도전과제가 합쳐지면 어떻게 나올지 캔버스로 만들어 주고 처음 2단계로 전체 그림이 그려질거니까 그렇게 준비하면서 어떻게 퀘스트로 준비할 수 있을지 전체적으로 UI를 고칠 예정임". [목업 캔버스](https://claude.ai/artifact/1To4aBVaPbF74QoBjy7Pf3) ④ ⑤ ⑥. 지금: 도전과제 탭(장마다 넣은 것 · 플로로가 한 것 · 내가 정한 것 · 관문)과 문서 지도 탭(`GET /api/docmap` — archi-board 엔진 사본, 상자 · 재료 선)이 따로다. 퀘스트 다섯 칸은 그 단계에 들어설 때 만든다(`quest.js`) — 미리 준비는 없다. **2026-10-28 보강**(10/27 이재엽 버튼 '기존 목업에 보강', 10/28 'ⓔ 지도 끝에 넣기'): 목업 ⑧ 얼음 조각 가까이(지도 도구 '지금 단계로' — 줄 하나 = 할 일 → 문서의 절 ← 재료, 줄을 누르면 오른쪽 칸에 누가 정했나 · 재료가 온 곳 · 다음 단계) · ⑨ 짝 선('흐름 따라가기' — 1 ↔ 8 · 2 ↔ 7 · 3 ↔ 6, 정한 곳 → 확인하는 곳) — [넘김 문서](기록/fable-handoff-2026-10-28-design.md) ⓔ+ | **만든다 — 2026-10-27 이재엽 "전부 작업 시작"**, 페이블([넘김 문서](기록/fable-handoff-2026-10-27-mdlayout.md) ⓔ), 11/1 동결 전 — 모자라면 '준비된 퀘스트'(AI로 미리 채우기)를 대회 뒤로 미룰지 버튼으로. MoSCoW는 이재엽 | 2단계 끝 전체 그림 → 3단계 카드 | ① 탭 이름 — '지도' / '도전과제' 그대로 ② 준비된 퀘스트 확인 — 한 번에 / 카드마다 ③ 기획서가 바뀌면(C-49 '낡음') 준비된 카드도 다시 그리나 ④ 가벼운 길(Lite)에서 건너뛰는 칸 · 단계는 카드에 어떻게 ⑤ 미리 채우는 AI 호출 — 한 번(기획서 → 여섯 장) / 단계마다, 연습 모드는 예시로 ⑥ 그림은 archi-board 엔진 사본(C-45) 그대로인가 |
-| **C-55 켤 때 바로 작업실 — 퀘스트를 누른 화면으로** | **When** Floe가 켜지면(처음 설정이 필요하지 않을 때), 시스템은 위 가운데 알약(C-46 R-1) 대신 **작업실**(퀘스트 단추를 누른 화면 — 지금 단계의 퀘스트 보드)을 바로 열고, 섬은 고른 가장자리의 접힌 알약으로 둔다. 인사는 알약 옆 말풍선으로 한다 — 시간대 인사 한 줄 · 멈춘 곳(단계 · 칸) · '섬 펼치기 / 나중에', 몇 초 뒤 사라진다(시간 미정).<br>**If** 처음 설정이 필요하면(`setup.js shouldOpen`), 시스템은 지금처럼 설정부터 연다.<br>**When** 사용자가 작업실을 닫으면, 시스템은 지금처럼 떠 있는 작은 섬(알약)을 보인다 | 이재엽 2026-10-27 "그리고 플로로 처음에 실행될때 퀘스트를 눌렀을때 화면으로 바로 보이도록 할것". [목업 캔버스](https://claude.ai/artifact/1To4aBVaPbF74QoBjy7Pf3) ①. 지금(#218): 켜면 위 가운데 알약 + 알약 안 인사(하루 한 번), 퀘스트 단추를 눌러야 작업실이 열린다 | **만든다 — 2026-10-27 이재엽 "전부 작업 시작"**, 페이블([넘김 문서](기록/fable-handoff-2026-10-27-mdlayout.md) ⓒ). **바꾸는 결정:** C-46 R-1(켤 때 위 가운데 알약) → 이것. C-46 R-2(작업실 안 접고 펼치기)는 그대로 | 켜면 바로 작업실 | ① 켤 때마다 / 처음 한 번만(그 뒤는 알약) ② 켤 때 섬 — 접힌 알약 + 말풍선 / 펼친 옆 칸 ③ 인사는 하루 한 번(C-46 버튼) 그대로인가 ④ 지난번에 작업실을 닫고 끝냈으면 — 그래도 작업실로 |
+| **C-55 켤 때 바로 작업실 — 퀘스트를 누른 화면으로** | **When** Floe가 켜지면(처음 설정이 필요하지 않을 때), 시스템은 위 가운데 알약(C-46 R-1) 대신 **작업실**(퀘스트 단추를 누른 화면 — 지금 단계의 퀘스트 보드)을 바로 열고, 섬은 고른 가장자리의 접힌 알약으로 둔다. 인사는 알약 옆 말풍선으로 한다 — 시간대 인사 한 줄 · 멈춘 곳(단계 · 칸) · '섬 펼치기 / 나중에', 몇 초 뒤 사라진다(시간 미정).<br>**If** 처음 설정이 필요하면(`setup.js shouldOpen`), 시스템은 지금처럼 설정부터 연다.<br>**When** 사용자가 작업실을 닫으면, 시스템은 지금처럼 떠 있는 작은 섬(알약)을 보인다 | 이재엽 2026-10-27 "그리고 플로로 처음에 실행될때 퀘스트를 눌렀을때 화면으로 바로 보이도록 할것". [목업 캔버스](https://claude.ai/artifact/1To4aBVaPbF74QoBjy7Pf3) ①. 지금(#218): 켜면 위 가운데 알약 + 알약 안 인사(하루 한 번), 퀘스트 단추를 눌러야 작업실이 열린다 | **만듦 — 2026-10-28 페이블 PR #228**(브랜치 `v2/workspace-md`, 이재엽 버튼: 접힌 알약 + 말풍선 · 켤 때마다 · 말풍선은 8초 뒤 사라짐[시간 미정을 8초로 둠]). 켜면 작업실(캔버스 = 지금 단계 퀘스트 보드) + 접힌 알약 + 알약 옆 말풍선(시간대 인사는 하루 한 번 · 멈춘 곳 · 섬 펼치기 / 나중에), 처음 설정이 필요하면 설정부터, 주소 끝 장면은 그대로. 규칙은 greet.js `bootPlan`, 시험 greet.test · e2e pill-overlay. 전: **만든다 — 2026-10-27 이재엽 "전부 작업 시작"**, 페이블([넘김 문서](기록/fable-handoff-2026-10-27-mdlayout.md) ⓒ). <!-- claude-drafted: 2026-10-28 --> **바꾸는 결정:** C-46 R-1(켤 때 위 가운데 알약) → 이것. C-46 R-2(작업실 안 접고 펼치기)는 그대로 | 켜면 바로 작업실 | ① 켤 때마다 / 처음 한 번만(그 뒤는 알약) ② 켤 때 섬 — 접힌 알약 + 말풍선 / 펼친 옆 칸 ③ 인사는 하루 한 번(C-46 버튼) 그대로인가 ④ 지난번에 작업실을 닫고 끝냈으면 — 그래도 작업실로 |
 | **C-57 화면 디자인 바탕 — 팀 웹사이트의 색 · 글꼴로, 앱 전체 한 번에** <!-- claude-drafted: 2026-10-28 — 이재엽 요청("지금 디자인이 너무 클로드 너가 만든 느낌이나 디자인 스킬들을 모두 모아서 우리가 맞는 색감만 넣고 전체적으로 재작업해" · "이걸 페이블 세션에 줄 수 있도록 준비해")과 버튼 셋으로 Claude가 문장 초안을 적었다. 만들지 않았다. --> | 시스템은 모든 화면(섬 · 작업실 · 설정 · 퀘스트 · 처음 설정 · 지도)에 팀 웹사이트 초안의 색 토큰과 글꼴을 쓴다 — 제목 · 단계 숫자는 Bagel Fat One, 글은 Gowun Dodum, 코드 · 파일 이름은 Nanum Gothic Coding, 섬의 어두운 색은 `#363E62`. 글꼴은 앱에 넣어 인터넷 없이도 같은 화면이고 밖으로 요청하지 않는다.<br>시스템은 글자 대비(본문 4.5:1 · 큰 글자 3:1)를 지킨다 — 흐린 글자(`#5B6491`)는 종이 · 바탕 · 눈 위에서만 쓴다. 아이콘은 한 가지 선 굵기로 그린 그림을 쓰고, 글자 기호(▾ ▸ ✓ ● ▲)를 아이콘으로 쓰지 않는다. 칸은 테두리보다 면의 색으로 나누고 카드 안에 카드를 넣지 않는다.<br>**When** 사용자가 글자 크기 설정을 바꾸면, 시스템은 새 글꼴에서도 지금처럼 키우고 줄인다(`--ui-scale`) | 이재엽 2026-10-28 "지금 디자인이 너무 클로드 너가 만든 느낌이나 디자인 스킬들을 모두 모아서 우리가 맞는 색감만 넣고 전체적으로 재작업해" → [목업 캔버스](https://claude.ai/artifact/1To4aBVaPbF74QoBjy7Pf3) v10 아홉 장 · 쪽지 '색과 글꼴'. 토큰 출처: [website/floe-site.html](../04-pattern-implementation/website/floe-site.html)(팀 웹사이트 초안, 2026-10-21 파스텔 원칙 — 순백 · 쨍한 파랑 단추 · 검정 면 금지). 지금: 시스템 글꼴, 섬 `#16225E` · `#1A2766`, 글자 기호 아이콘이 섞여 있다 | **만든다 — 2026-10-28 이재엽 버튼** "앱 전체 한 번에" · 섬 "#363E62 웹사이트 회남색". 페이블([넘김 문서](기록/fable-handoff-2026-10-28-design.md) ⓐ+ — ⓒ ~ ⓔ보다 먼저), 11/1 동결 전. FR-13(쉬운 말과 그림) 세부 [제안] | 켤 때 작업실부터 지도까지 같은 색 · 글꼴 | ① 글꼴 파일 크기 — 한글 자주 쓰는 글자만 / 전체 ② 웹사이트와 앱의 토큰이 어긋나면 어느 쪽이 기준인가(제안: 웹사이트) ③ 색을 글로 맞대는 시험(#16225E — electron-side · workspace-col · workspace)을 같이 고친다 ④ 다크 모드는 지금처럼 없음 |
 
 **세는 법 (2026-10-20 정함 — 이재엽 버튼):** 새 요구는 C-1 → **FR-14**, C-15(C-2 · C-8을 합침) → **FR-15**, C-5 → **FR-16**, C-4 → **FR-17**. 세부로 합친 것: C-3 · C-9 → FR-8, C-16 → FR-3 · FR-8, C-6 → FR-1 · FR-2, C-10 · C-13 → FR-16, C-11 → FR-6 · FR-7, C-12 → FR-7, C-14 → FR-13. **C-7은 Floe 밖(2026-10-17, 개인 프로젝트) — 세지 않는다.** 요구는 이제 **17개**(FR-1~17, FR-9 Won't 포함)이고, 새 후보는 C-21부터 받는다(C-17~C-20은 2026-10-20 접수, 등급 미정). <!-- claude-drafted: 2026-10-20 -->

diff --git a/changes/workspace-md.md b/changes/workspace-md.md
@@ -1,4 +1,4 @@
 종류: 큰 묶음
 누가: 이재엽
-무엇: 목업 캔버스대로 — 작업실 안에서 섬을 접으면 생기던 파란 줄을 없앰(F-65, 남색은 알약만); 관문에서 까닭을 적고 넘긴 기준이 단계 문서 · 결정 기록에 '넘김(까닭)'으로 남음(F-62, 서버가 버리던 것)
-건드린 곳: `02-frontend/navigator/`(app.css — 담당 임유정), `03-backend/navigator/`(server.js resultsOf), `04-tests/`(flow-api · e2e pill-overlay), `01-docs/`(fix-map · compare 사진)
+무엇: 목업 캔버스대로 — 작업실 안에서 섬을 접으면 생기던 파란 줄을 없앰(F-65, 남색은 알약만); 관문에서 까닭을 적고 넘긴 기준이 단계 문서 · 결정 기록에 '넘김(까닭)'으로 남음(F-62, 서버가 버리던 것); 켜면 바로 작업실 — 지금 단계의 퀘스트 보드가 열린 채 섬은 고른 가장자리의 접힌 알약, 알약 옆 말풍선에 시간대 인사(하루 한 번) · 멈춘 곳 · 섬 펼치기 / 나중에(C-55 — C-46 R-1의 '켤 때 위 가운데 알약'을 바꿈)
+건드린 곳: `02-frontend/navigator/`(app.js · app.css · greet.js — 담당 임유정), `03-backend/navigator/`(server.js resultsOf), `04-tests/`(flow-api · e2e pill-overlay), `01-docs/`(fix-map · compare 사진)

diff --git a/01-docs/04-pattern-implementation/stage-storyboard/compare/README.md b/01-docs/04-pattern-implementation/stage-storyboard/compare/README.md
@@ -56,6 +56,7 @@
 | 같은 것, 왼쪽 | ⑦ | [col-left-folded.png](col-left-folded.png) |
 | 같은 것, 위 — 가운데 가로 알약 | ⑦ | [col-top-folded.png](col-top-folded.png) |
 | 같은 것, 아래 | ⑦ | [col-bottom-folded.png](col-bottom-folded.png) |
+| 켤 때(주소 없이, 1440 × 900, 브라우저 판) — 작업실(캔버스)이 바로 열리고 섬은 접힌 알약, 알약 옆 말풍선(시간대 인사 · 멈춘 곳 · 섬 펼치기 / 나중에) (C-55) | ① 켤 때 바로 작업실 | [boot-workspace.png](boot-workspace.png) |
 
 네 가장자리 모두 e2e [pill-overlay.test.js](../../../../04-tests/e2e/pill-overlay.test.js) R-2가 접힌 칸의 바탕이 비치는지(`rgba(0, 0, 0, 0)`)와 알약만 색이 있는지를 잰다. 위 C-46 절의 `pill-col-*-folded.png`가 고치기 전 모습이다.
 F-62(넘긴 기준의 까닭)는 화면이 아니라 문서 — [flow-api.test.js](../../../../04-tests/navigator/flow-api.test.js)가 단계 문서의 '넘김(까닭: …)'과 결정 기록의 '넘김 n — 까닭'을 본다.
